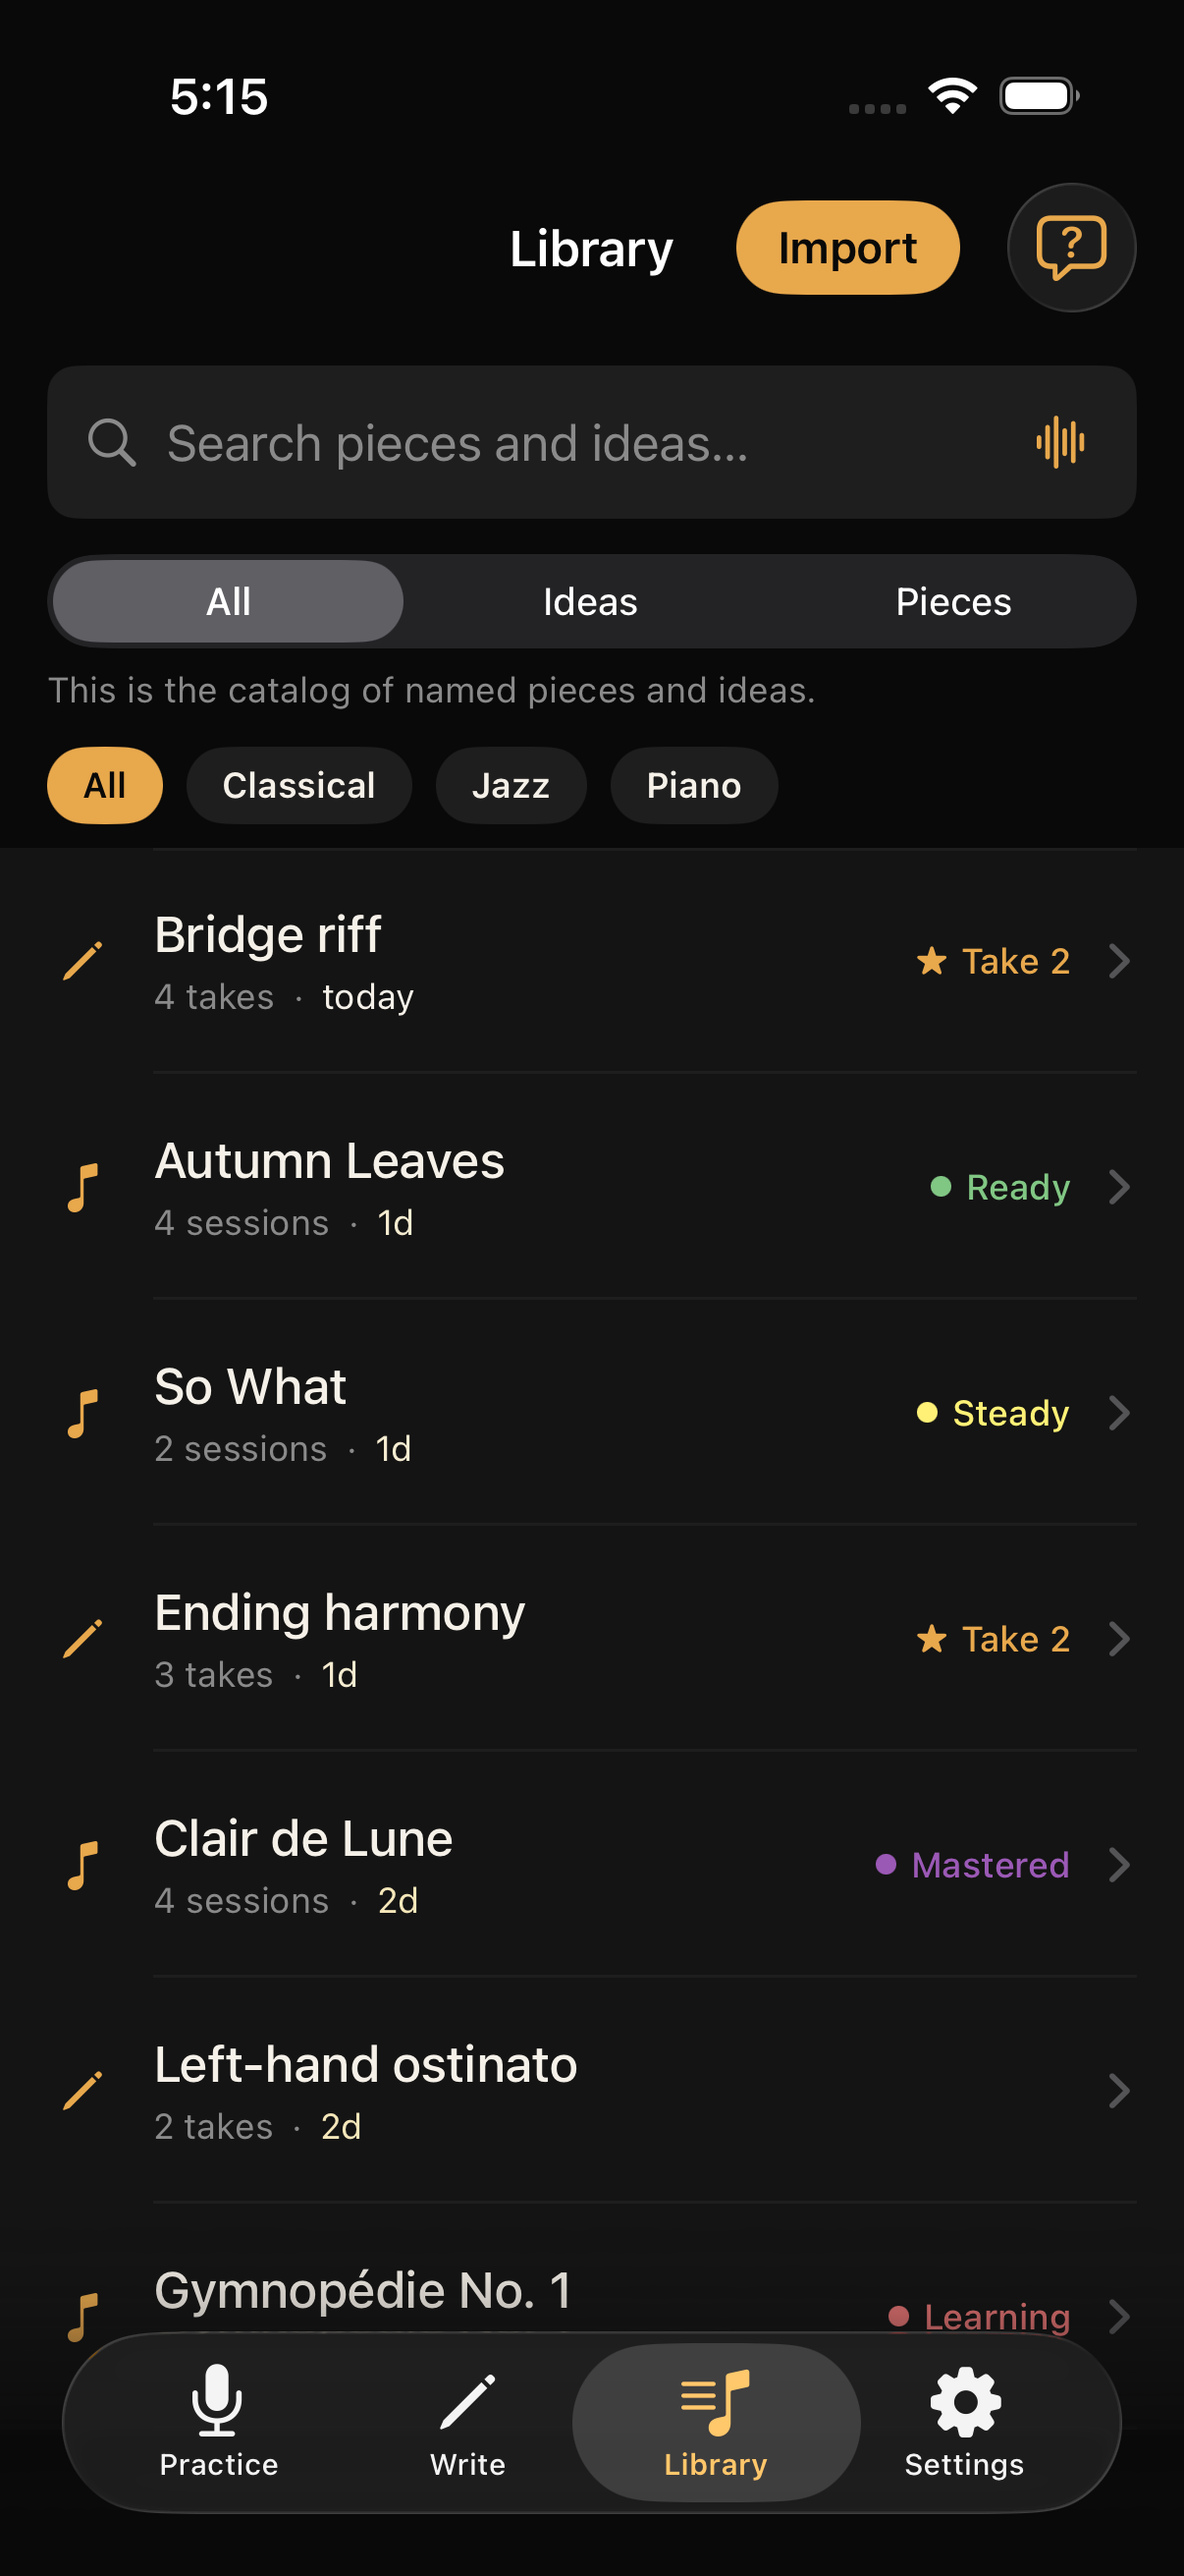
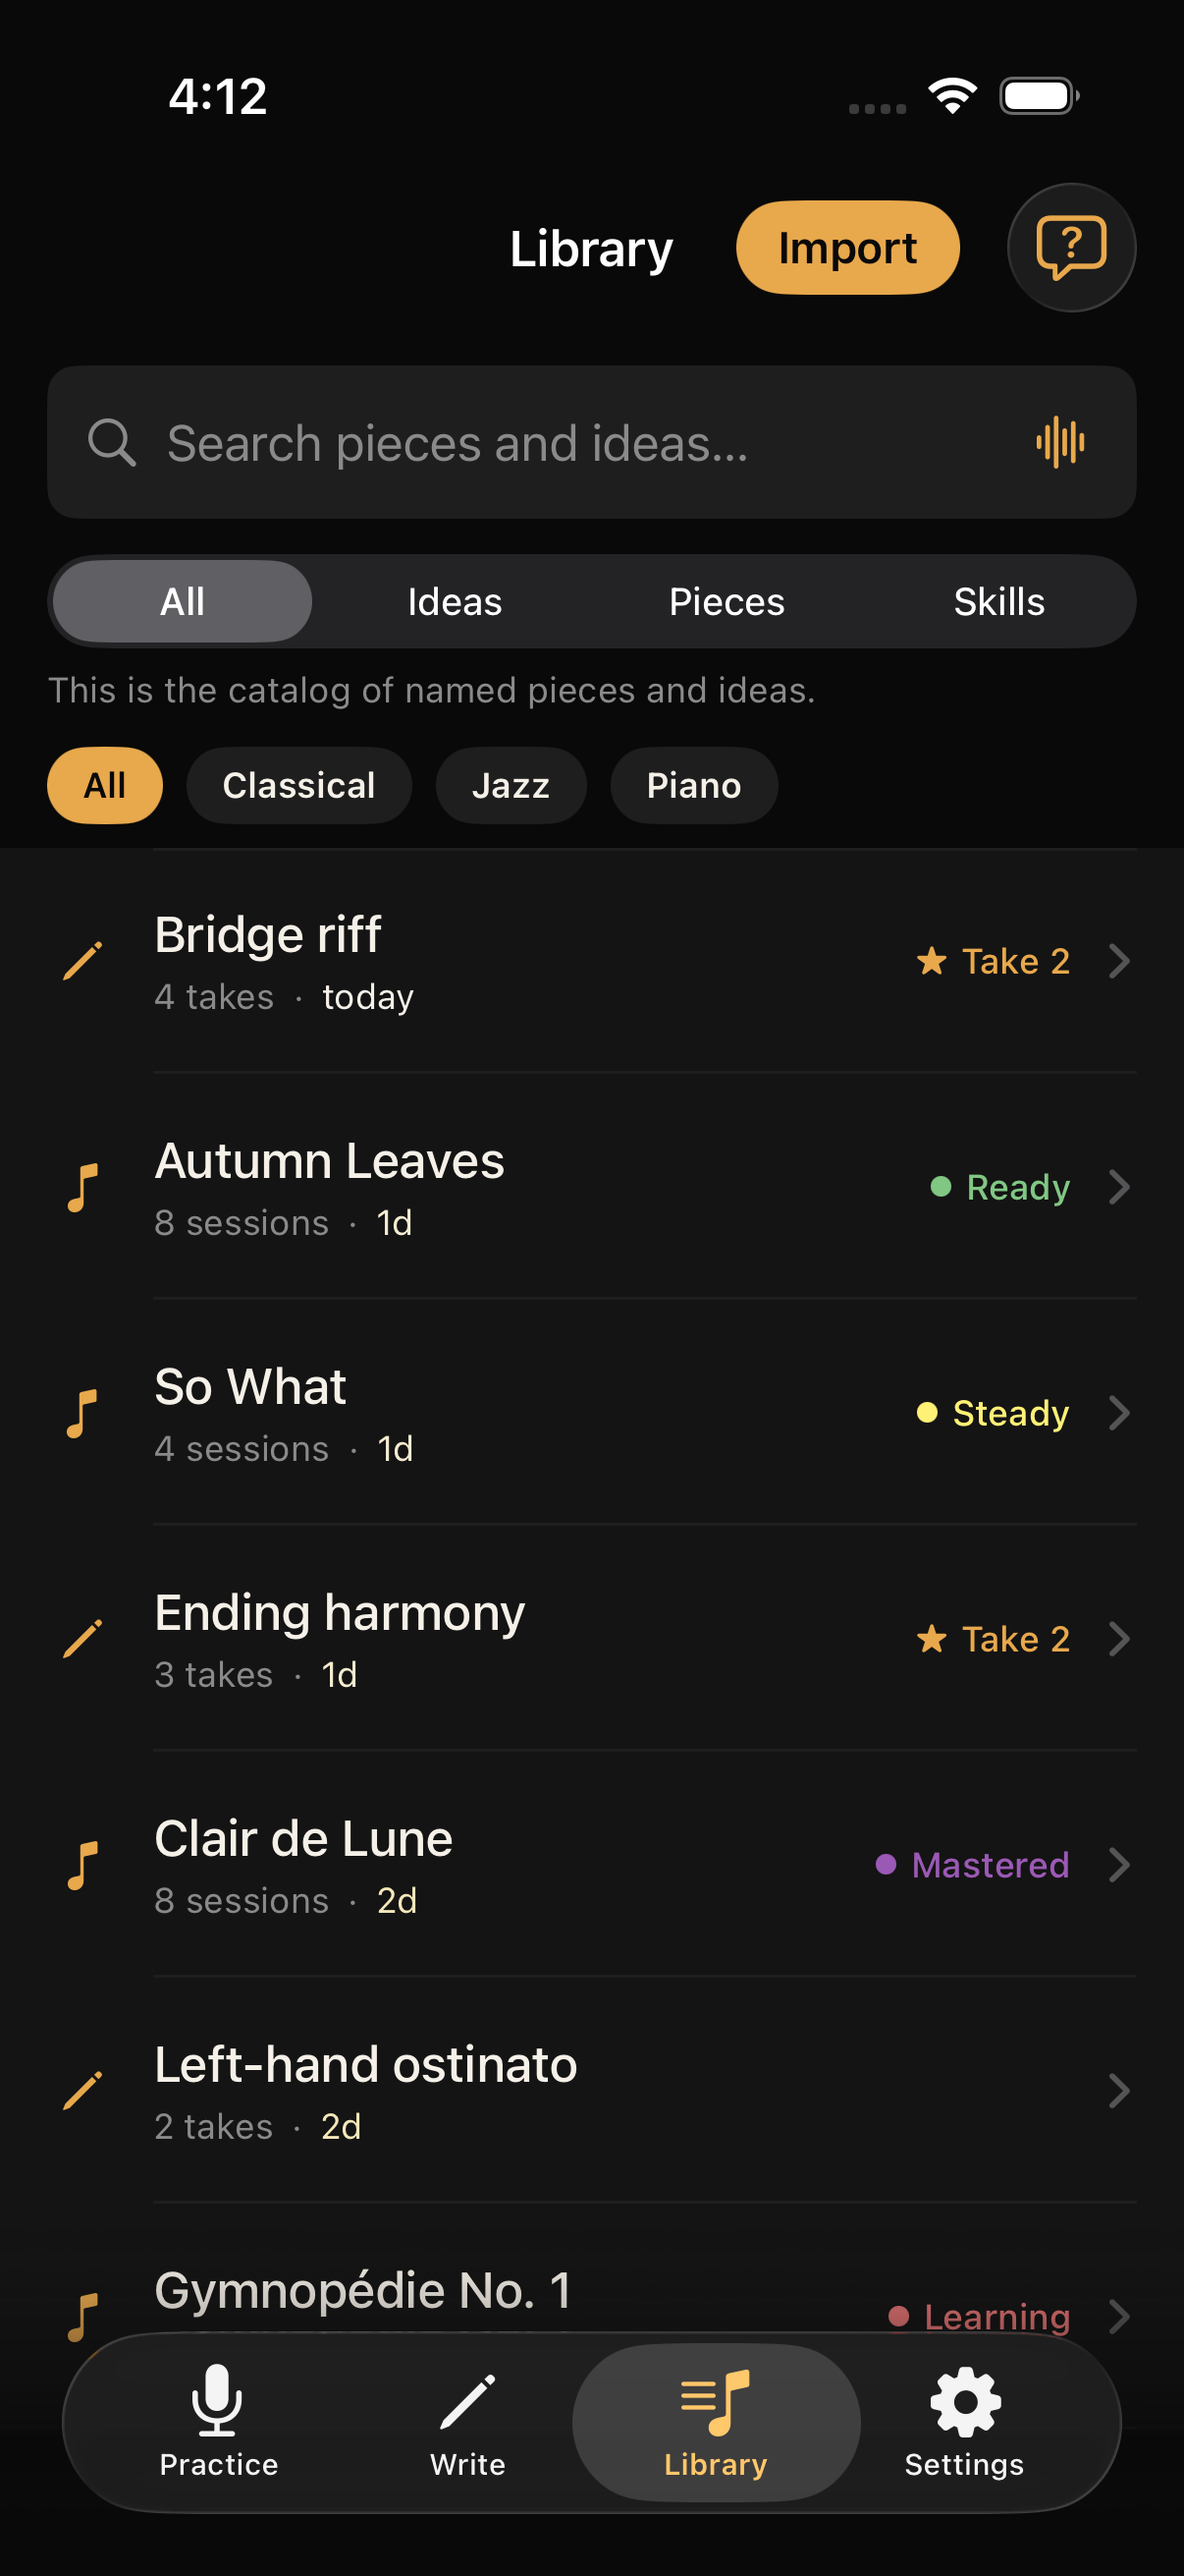
Show skills on the session and library screenshots. (#40)

diff --git a/index.html b/index.html
@@ -79,7 +79,7 @@
         <article class="beat">
           <div class="beat-copy">
             <h2 class="serif">Woodshed sorts it out.</h2>
-            <p>Woodshed splits your session into segments. Name each piece once. After that, it suggests the match. Rate as you go. When you practiced with a metronome, tap the tempo to hear that stretch.</p>
+            <p>Woodshed splits your session into segments. Name each piece once. After that, it suggests the match. Rate as you go. When you practiced with a metronome, tap the tempo to hear that stretch. Practice that is not a piece — sightreading, technique, improvisation, ear training, rhythm — files under a skill.</p>
             <p class="rating-line" aria-label="Readiness scale">
               <span class="rating learning">Learning</span>
               <span class="rating rough">Rough</span>
@@ -89,7 +89,7 @@
             </p>
           </div>
           <figure class="beat-figure">
-            <img src="images/session.png" alt="Session review — segments, match suggestions, and ratings" class="screenshot-img" />
+            <img src="images/session.png" alt="Session review — segments, match suggestions, ratings, and Skill" class="screenshot-img" />
           </figure>
         </article>
 
@@ -139,10 +139,10 @@
           <div class="beat-copy">
             <p class="section-label">Library</p>
             <h2 class="serif">Everything you play, in one place.</h2>
-            <p>Practice and Write are two rooms in the same library — every piece and idea you record is saved, catalogued, taggable, and searchable.</p>
+            <p>Practice and Write are two rooms in the same library — every piece and idea you record is saved, catalogued, taggable, and searchable. Skills sit beside them, for practice that is not a piece.</p>
           </div>
           <figure class="beat-figure">
-            <img src="images/library.png" alt="Library — pieces and ideas in one list, each with a rating or best take" class="screenshot-img" />
+            <img src="images/library.png" alt="Library — pieces and ideas, with a Skills filter beside All, Ideas, and Pieces" class="screenshot-img" />
           </figure>
         </article>
 
